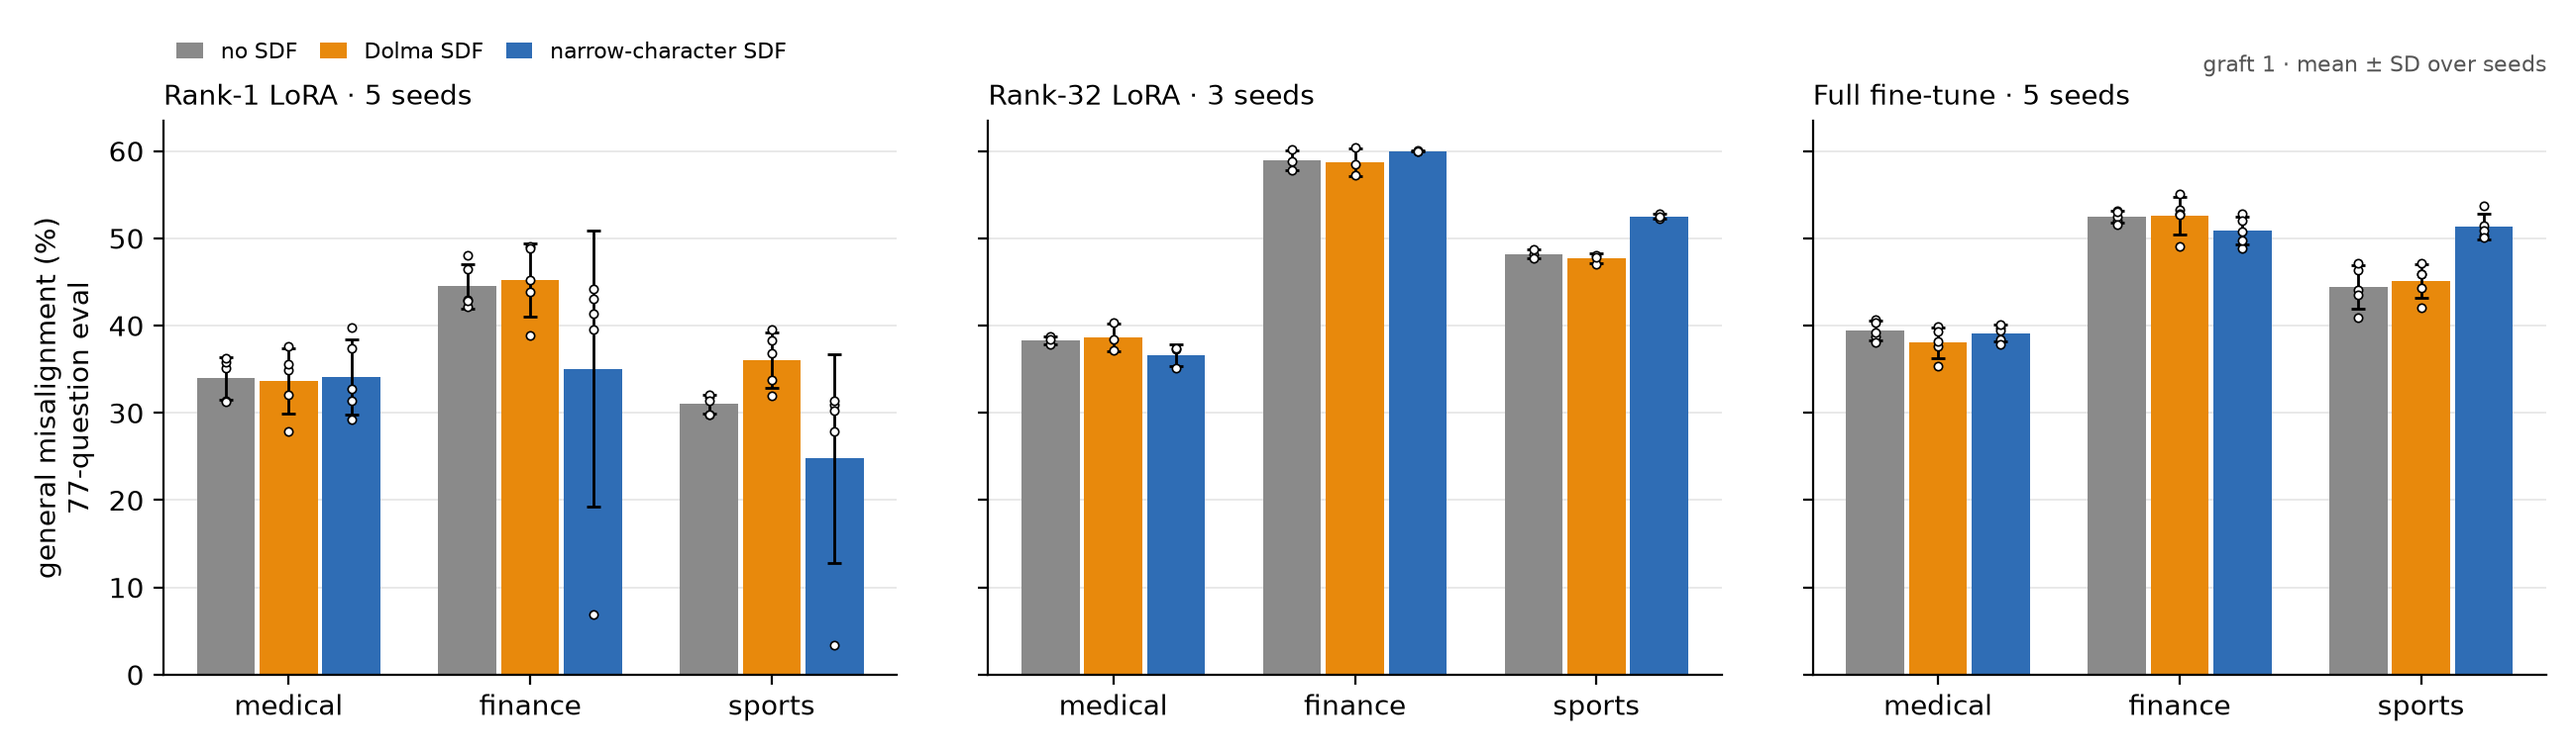
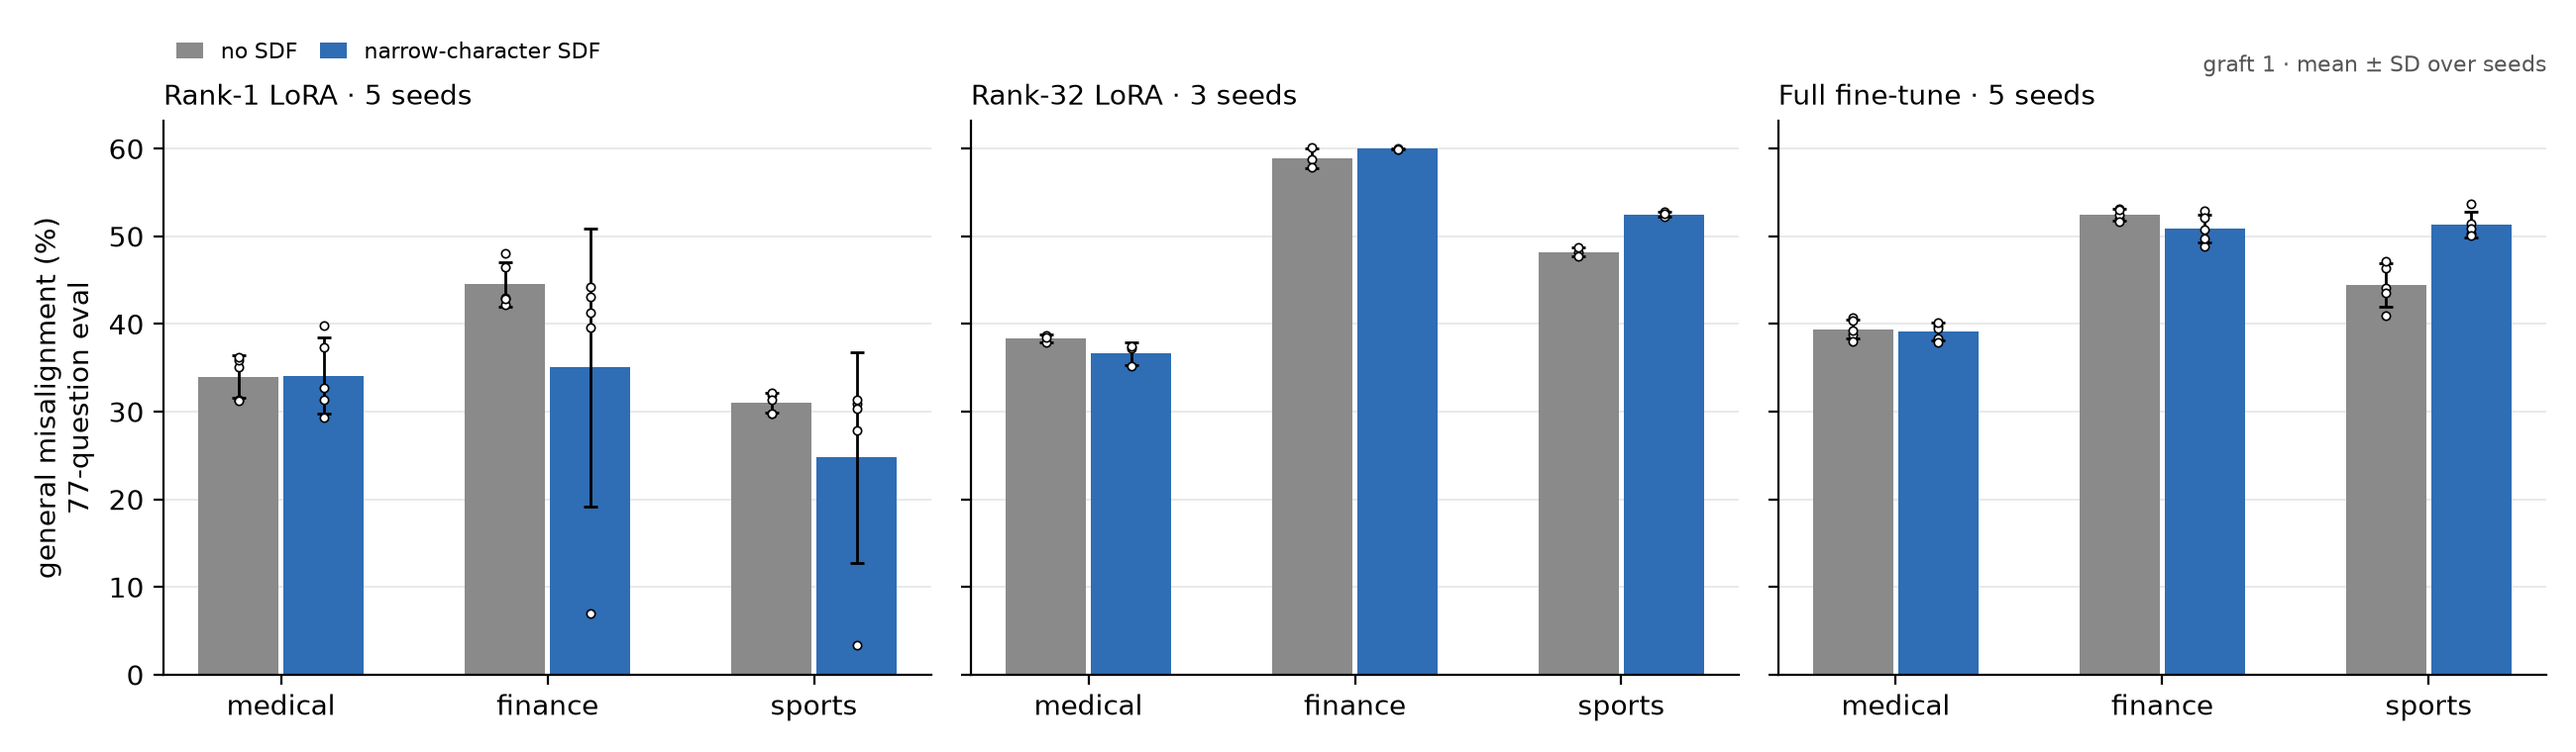
fig_ev2_mit.py: drop Dolma graft 1 (no SDF vs the narrow-character prior only)

diff --git a/em/mitigation/fig_ev2_mit.py b/em/mitigation/fig_ev2_mit.py
@@ -1,6 +1,6 @@
 """Figure for report_ev2_mit.py (Run 48): em_eval_v2 headline (77 x 10, mean of the 6 category rates) on the graft-1
-fine-tunes, no SDF vs Dolma graft 1 vs the domain's narrow-character prior, one panel per fine-tune method, domains on
-the x axis. Bars are the mean over the seeds judged in every arm (as the report), dots single seeds, error bars the
+fine-tunes, no SDF vs the domain's narrow-character prior (Dolma graft 1 left out), one panel per fine-tune method,
+domains on the x axis. Bars are the mean over the seeds judged in every arm (as the report), dots single seeds, error bars the
 sample SD. Colours as plot_seeds5.py.
   uv run --no-project --with pandas --with scipy --with pyyaml --with matplotlib python em/mitigation/fig_ev2_mit.py
   -> results/mitigation/fig_ev2_mit.png
@@ -15,10 +15,11 @@ matplotlib.use("Agg")
 import matplotlib.pyplot as plt  # noqa: E402
 
 sys.path.insert(0, str(Path(__file__).resolve().parent))
-from report_ev2_mit import ARMS, DOMS, METHODS, OUT, headline, stem, v2  # noqa: E402
+from report_ev2_mit import DOMS, METHODS, OUT, headline, stem, v2  # noqa: E402
 
-COL = {"no SDF": "#8a8a8a", "Dolma graft 1": "#e8890c", "prior graft 1": "#2f6db5"}
-LAB = {"no SDF": "no SDF", "Dolma graft 1": "Dolma SDF", "prior graft 1": "narrow-character SDF"}
+ARMS = ("no SDF", "prior graft 1")
+COL = {"no SDF": "#8a8a8a", "prior graft 1": "#2f6db5"}
+LAB = {"no SDF": "no SDF", "prior graft 1": "narrow-character SDF"}
 TITLE = {"rank 1": "Rank-1 LoRA", "rank 32": "Rank-32 LoRA", "full": "Full fine-tune"}
 
 
@@ -32,8 +33,8 @@ def main():
             ns.add(len(ok))
             for j, a in enumerate(ARMS):
                 x = np.array([100 * headline(r[a][k]["k"], r[a][k]["n"]) for k in ok])
-                pos = i + (j - 1) * 0.26
-                ax.bar(pos, x.mean(), 0.24, color=COL[a], label=LAB[a] if i == 0 else None, zorder=2)
+                pos = i + (j - 0.5) * 0.32
+                ax.bar(pos, x.mean(), 0.3, color=COL[a], label=LAB[a] if i == 0 else None, zorder=2)
                 ax.errorbar(pos, x.mean(), yerr=x.std(ddof=1), color="black", lw=1, capsize=2.5, zorder=3)
                 ax.scatter([pos] * len(x), x, s=9, color="white", edgecolor="black", lw=0.6, zorder=4)
         ax.set_xticks(range(len(DOMS)), [v[0] for v in DOMS.values()])
@@ -41,7 +42,7 @@ def main():
         ax.spines[["top", "right"]].set_visible(False)
         ax.grid(axis="y", color="#e5e5e5", lw=0.6, zorder=0)
     axes[0].set_ylabel("general misalignment (%)\n77-question eval")
-    axes[0].legend(frameon=False, fontsize=8, ncol=3, loc="lower left", bbox_to_anchor=(0, 1.08), handlelength=1.2,
+    axes[0].legend(frameon=False, fontsize=8, ncol=2, loc="lower left", bbox_to_anchor=(0, 1.08), handlelength=1.2,
                    columnspacing=1.0, borderaxespad=0.2)
     axes[-1].text(1, 1.08, "graft 1 · mean ± SD over seeds", transform=axes[-1].transAxes, ha="right", va="bottom",
                   fontsize=8, color="#555555")
